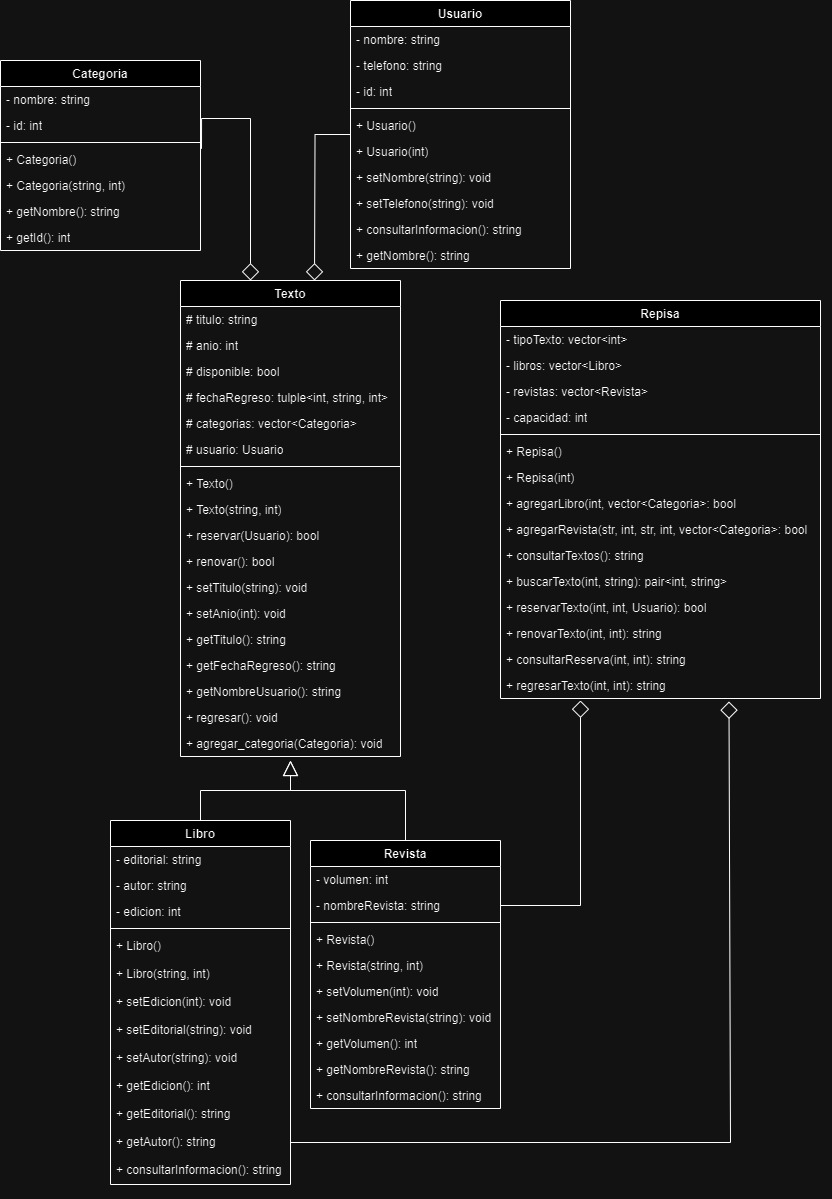
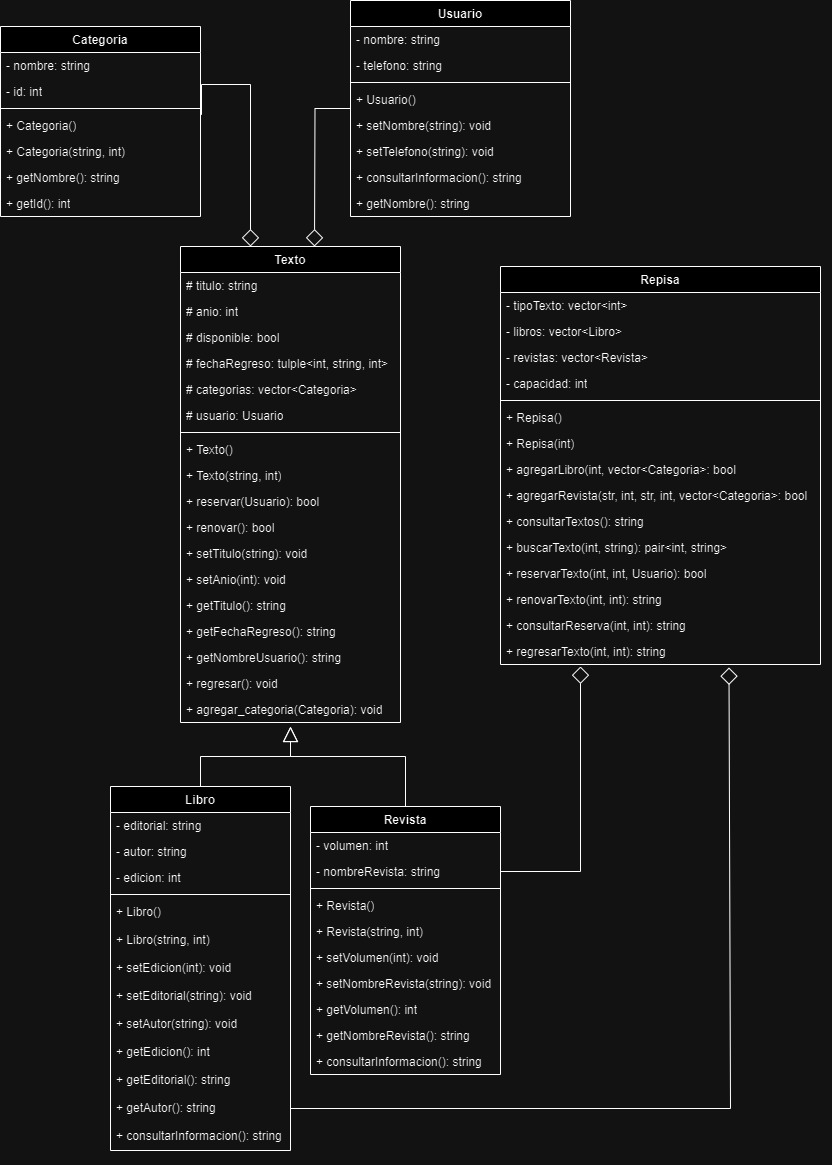
Avance final

diff --git a/InventarioBiblioteca/Biblioteca.cpp b/InventarioBiblioteca/Biblioteca.cpp
@@ -57,8 +57,8 @@ Salida:
 */
 pair<int,int> posiciones(int op, bool mostrarInfo=true) {
     
-    if (op == 1) cout << "\nIngrese el nombre del libro:\n";
-    else cout << "\nIngrese el nombre de la revista:\n";
+    if (op == 1) cout << "\nIngrese el titulo del libro:\n";
+    else cout << "\nIngrese el titulo de la revista:\n";
 
     cin.ignore();
     string titulo="";
@@ -102,7 +102,7 @@ void registrarTexto(int op) {
         getline(cin, autor);
         cout << "Ingrese el nombre de la editorial:\n";
         getline(cin, editorial);
-        cout << "Ingrese numero de edición:\n";
+        cout << "Ingrese numero de edicion:\n";
         cin >> edicion;
 
         cout << "A que categorias pertenece este libro?\n";
@@ -199,11 +199,10 @@ void reservar(int op) {
         }
         
         if (posUsuario == -1) {
-            Usuario nuevoUsuario(usuarios.size()+1);
+            Usuario nuevoUsuario;
             
             string telefono="";
             cout << "Ingrese numero de telefono:\n";
-            cin.ignore();
             getline(cin, telefono);
 
             nuevoUsuario.setNombre(nombre);
@@ -313,7 +312,7 @@ int main() {
 
         if (opcion == 1) { // Registrar usuario
 
-            Usuario nuevoUsuario(usuarios.size()+1);
+            Usuario nuevoUsuario;
             
             string nombre="", telefono="";
             cout << "Ingrese nombre del usuario:\n";

diff --git a/InventarioBiblioteca/Usuario.cpp b/InventarioBiblioteca/Usuario.cpp
@@ -18,12 +18,10 @@ class Usuario {
 
         string nombre;
         string telefono;
-        int id;
 
     public:
 
         Usuario();
-        Usuario(int _id);
 
         void setNombre(string n);
         void setTelefono(string t);
@@ -35,13 +33,6 @@ class Usuario {
 Usuario::Usuario() {
     nombre = "";
     telefono = "";
-    id = 0;
-}
-
-Usuario::Usuario(int _id) {
-    nombre = "";
-    telefono = "";
-    id = _id;
 }
 
 void Usuario::setNombre(string n) {

diff --git a/README.md b/README.md
@@ -4,10 +4,10 @@ Las bibliotecas son lugares en donde se recopila una cantidad enorme de libros, 
 Sin embargo, el llevar un registro a papel de todo esto, puede llegar a ser algo poco eficiente, ya que el actualizarlo requiere de mucho esfuerzo, y el encontrar un texto en específico podría llevar mucho tiempo.
 
 ## Interés
-Las bibliotecas tienen una cantidad inmensa de recursos, y me parece interesante el cómo se suelen clasificar estos para lograr identificar la ubicación y los detalles de cada uno de ellos. Me gusaría poder implementar algo que facilite este registro, así como la búsqueda de los recursos disponibles.
+Las bibliotecas tienen una cantidad inmensa de recursos, y me parece interesante el cómo se suelen clasificar estos para lograr identificar la ubicación y los detalles de cada uno de ellos. Me gustaría poder implementar algo que facilite este registro, así como la búsqueda de los recursos disponibles.
 
 ## Propuesta
-Para evitar hacer todo a papel, considero que es importante tomar en cuenta la tecnología que tenemos disponible, realizando un inventario digital, para así simplificar el proceso de actualización de cada recurso, y tener una herramienta de búsqueda que encuntre los textos de una manera sencilla y rápida.
+Para evitar hacer todo a papel, considero que es importante tomar en cuenta la tecnología que tenemos disponible, realizando un inventario digital, para así simplificar el proceso de actualización de cada recurso, y tener una herramienta de búsqueda que encuentre los textos de una manera sencilla y rápida.
 
 ## Diagrama UML
 ![Diagrama](UML/Diagrama.jpg)<br><br>
@@ -18,3 +18,34 @@ La función de cada clase es la siguiente:
 * **Revista:** Un Texto de tipo revista, que además de los atributos de Texto, tendrá un volumen y número de publicación.
 * **Usuario:** Una clase que contendrá la información de las personas que pidan algún texto, como sus nombres, y los libros que han pedido, así como la fecha en que los regresarán.
 * **Categoria:** Esta clase permitirá que los libros sean categorizados (ejemplos: Matemáticas, Ciencias, Filosofía, Economía, Ciencia Ficción, etc.), para así facilitar la identificación de los textos dentro de cierta área.
+
+## Cómo utilizar el programa
+Este inventario tiene 6 funcionalidades principales:
+* Registrar un usuario
+* Registrar un texto
+* Reservar un texto
+* Renovar un texto
+* Regresar un texto
+* Ver textos en la biblioteca
+
+Este inventario puede registrar dos tipos de textos: libros o revistas. La interacción con el programa es intuitiva, ya que esta irá indicando lo que se necesita ingresar, dependiendo de la acción que se quiera realizar. Sin embargo, aquí hay una pequeña descripción de cada una de las acciones:
+<br><br>
+**Registro de usuario**<br>
+Cuando se desea registrar a un usuario, se le solicitará el nombre de este, y un teléfono. Dos usuarios no podrán tener el mismo nombre.
+<br><br>
+**Registro de texto**<br>
+Cuando se desea registrar un texto, se solicitarán los datos del texto a registrar.
+<br><br>
+**Reserva de texto**<br>
+Para la reservación de un texto, se solicitará el título del texto y el nombre del usuario que está reservando el texto. Si el texto no existe, se indicará esto, y si el usuario no existe, se creará un nuevo usuario en el momento. Si la reserva es exitosa, se muestra la fecha en la que se espera que el libro sea devuelto.
+<br><br>
+**Renovación de texto**<br>
+Para renovar un texto, simplemente se necesita el título de este, y si efectivamente alguien tiene el texto, se indicará la nueva fecha en la que se espera que el libro sea devuelto.
+<br><br>
+**Regreso de texto**<br>
+Al regresar un texto, simplemente es necesario indicar el título de este.
+<br><br>
+**Ver textos en la biblioteca**<br>
+Esta opción permitirá ver todos los textos que han sido registrados en la revista, siendo ordenados por repisa y por orden de registro.
+<br><br>
+
